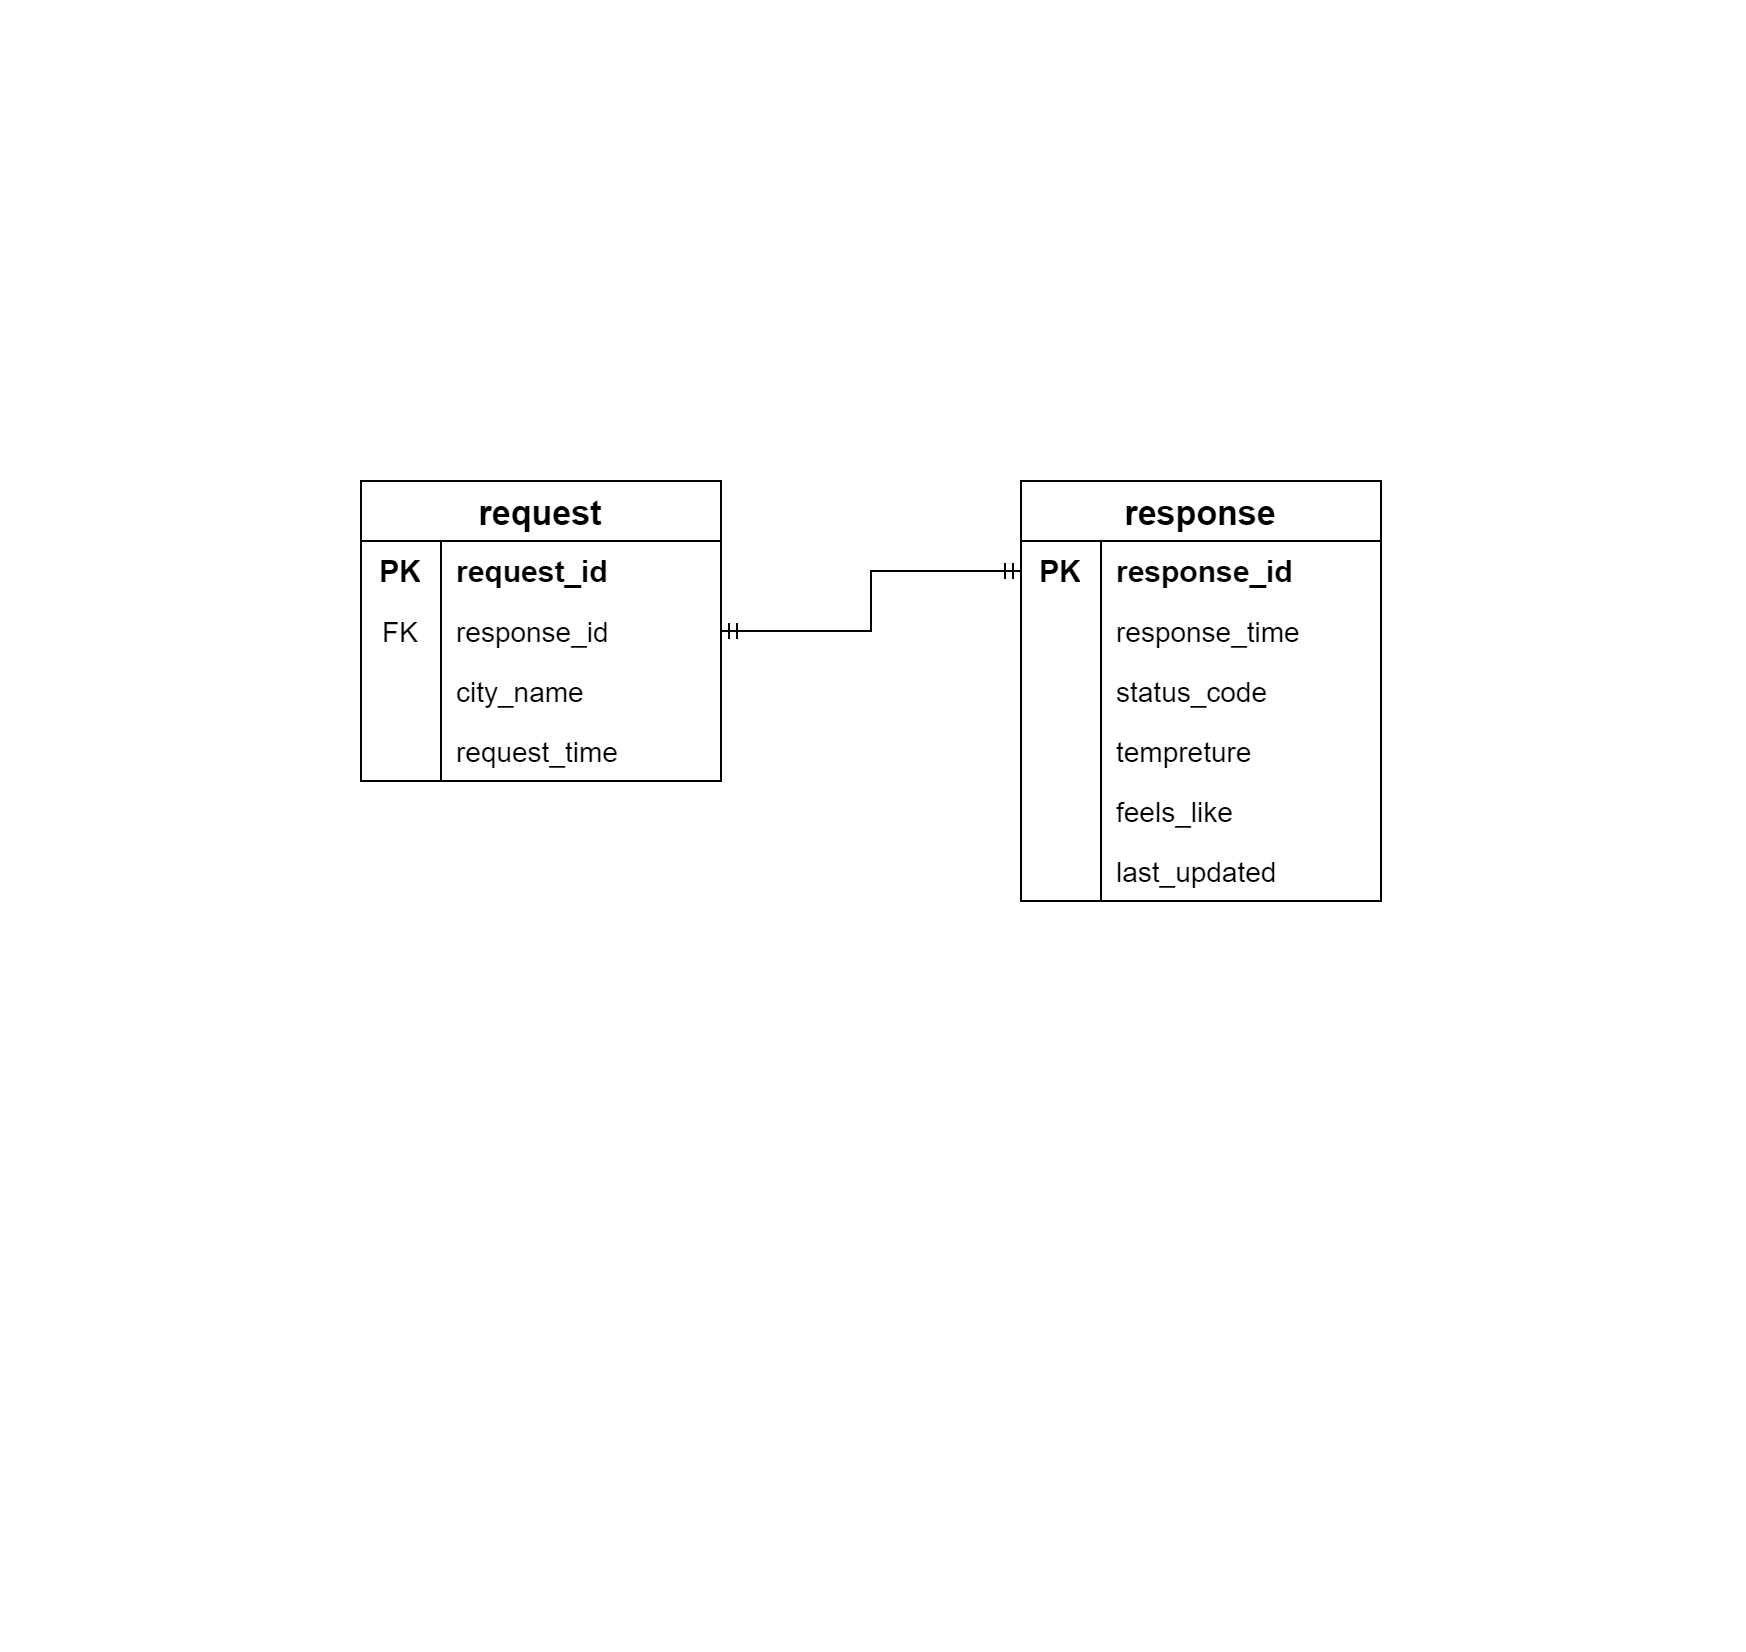
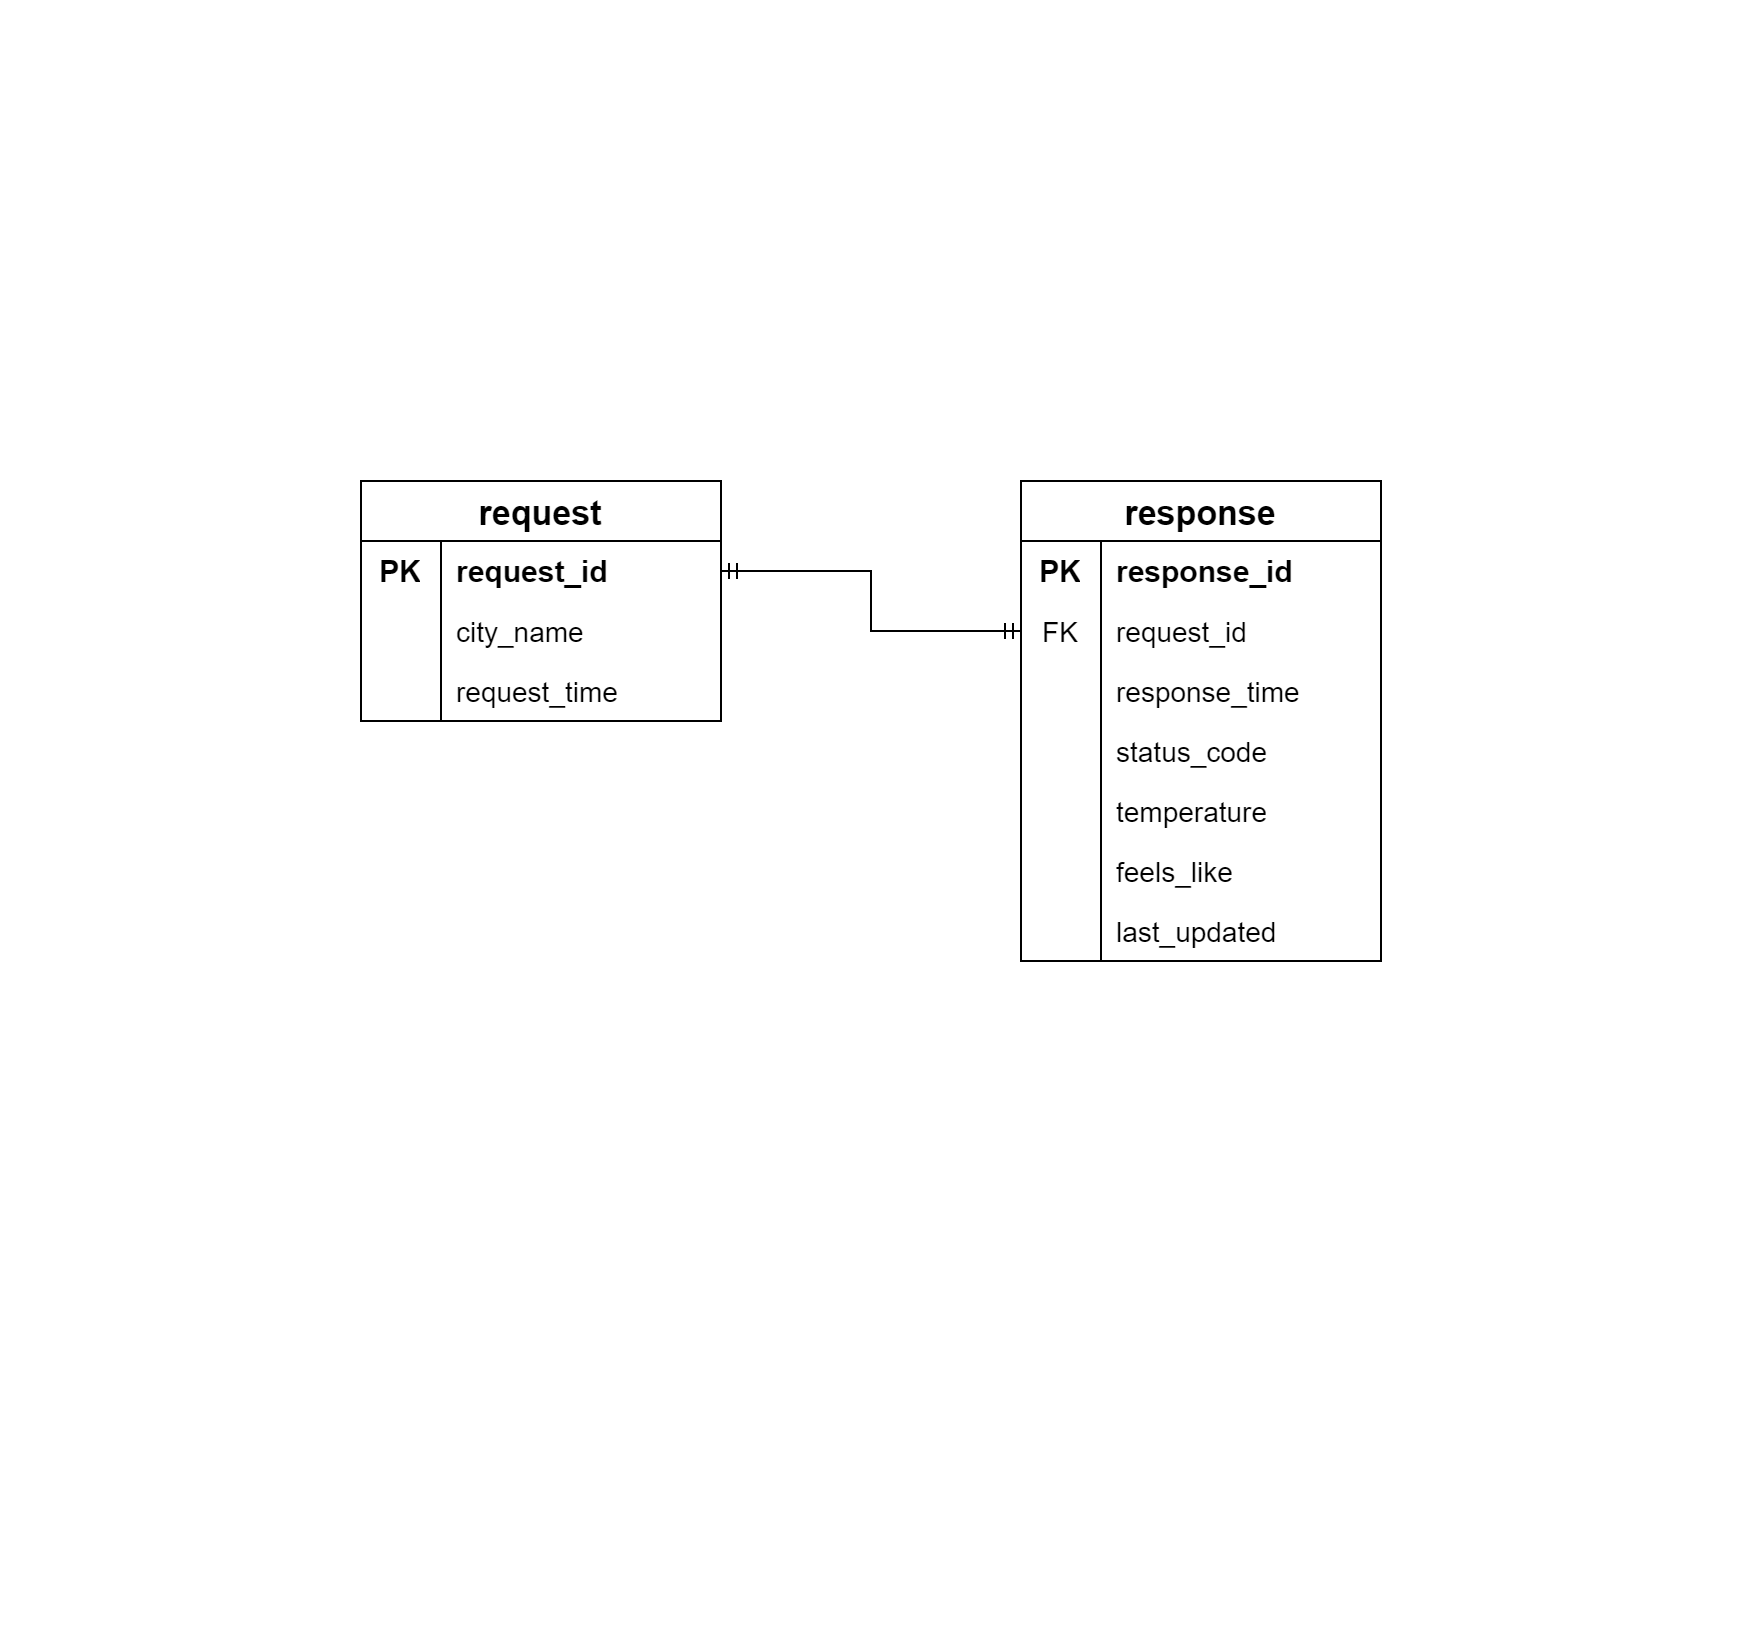
Weather Server Project | writing save_request_data method in database; editing erd

Changed region(s): [[0.6186, 0.3705, 0.7423, 0.5866], [0.2165, 0.3705, 0.3711, 0.4631], [0.5876, 0.3705, 0.6186, 0.4013]]

diff --git a/Week12/database.py b/Week12/database.py
@@ -4,46 +4,21 @@ from typing import List, Tuple
 
 class WeatherDatabase:
     @staticmethod
-    def connect_to_db():
+    def connect_to_db() -> connection:
         conn = psycopg2.connect(
-        database="weather",
-        user="postgres",
-        password="13751375",
-        port=5433
-    )
+            database="weather", user="postgres", password="13751375", port=5433
+        )
+        return conn
 
     @classmethod
     def save_request_data(cls, city_name: str, request_time: str) -> None:
         conn = WeatherDatabase.connect_to_db()
         with conn.cursor() as cur:
-            cur.execute(f"INSERT INTO ")
-
-# Define the INSERT statement
-insert_query = "INSERT INTO your_table (column1, column2, column3) VALUES (%s, %s, %s)"
-
-# Define the values to be inserted
-values = ("value1", "value2", "value3")
-
-# Execute the INSERT statement
-cur.execute(insert_query, values)
-
-# Commit the transaction
-conn.commit()
-
-# Close the cursor and connection
-cur.close()
-conn.close()
-        """
-        Save request data for a city to the database.
-
-        Args:
-        - city_name (str): The name of the city to save request data for.
-        - request_time (str): The time the request was made, in ISO format.
-
-        Returns:
-        - None
-        """
-        pass
+            cur.execute(
+                f"INSERT INTO request (city_name, request_time) VALUES ({city_name}, {request_time})"
+            )
+            conn.commit()
+            conn.close()
 
     def save_response_data(self, city_name: str, response_data: dict) -> None:
         """
